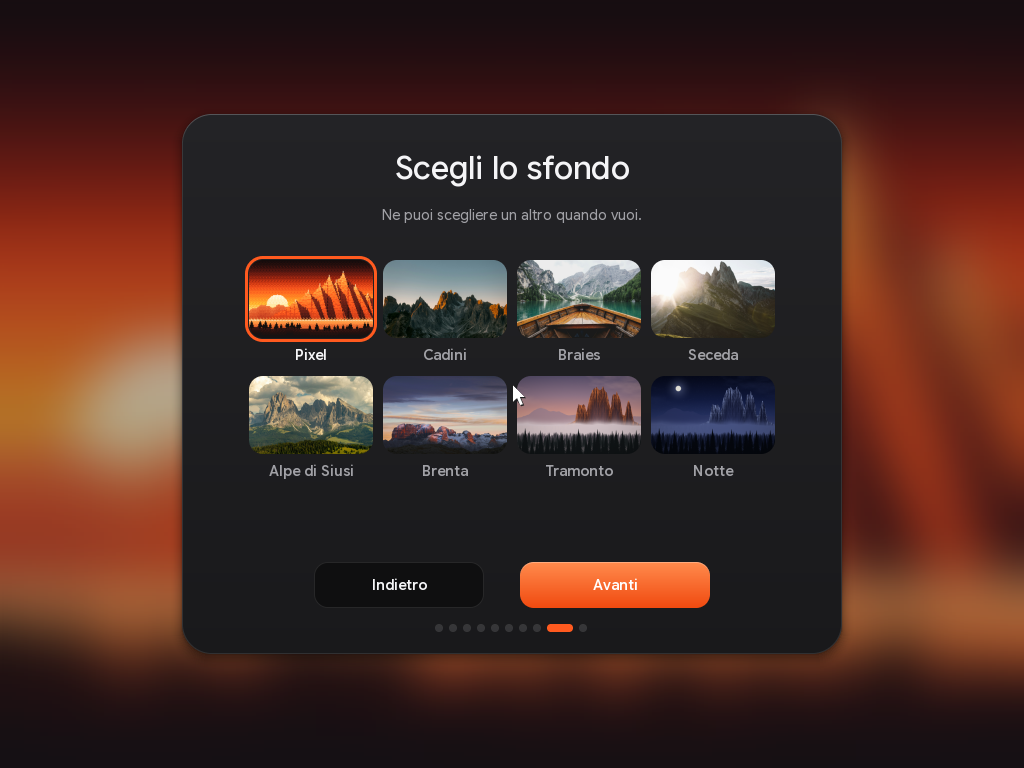
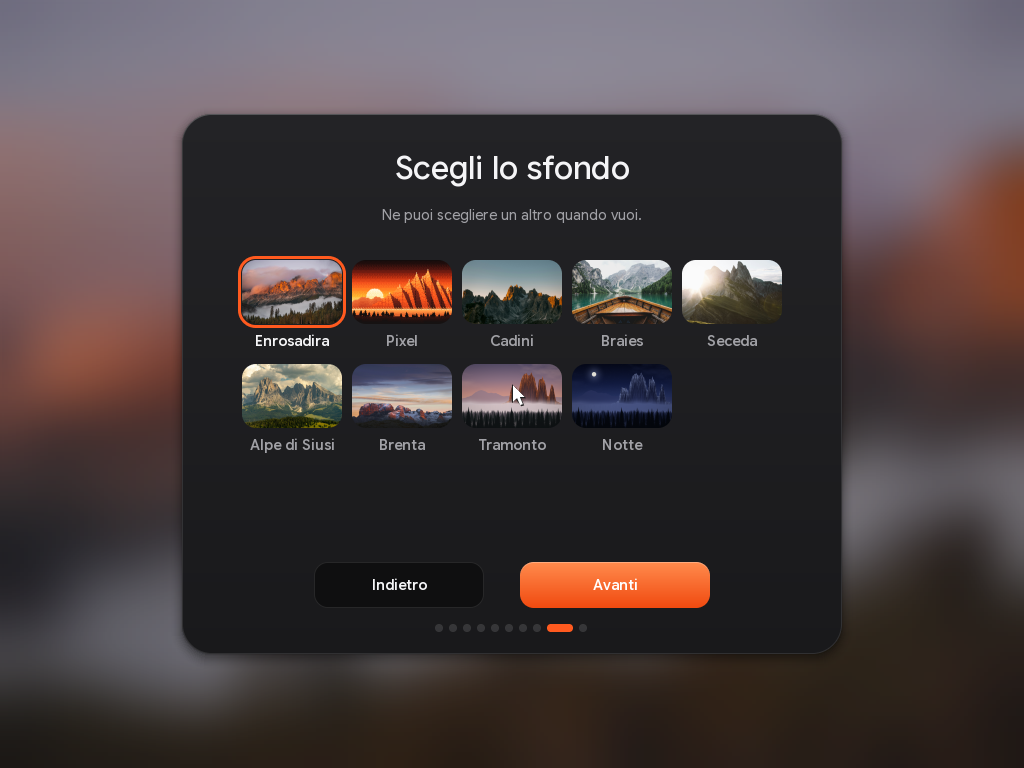
README: screenshots with the Enrosadira wallpaper and Wine's preparation
Desktop, launchpad, control centre, Wi-Fi and Bluetooth pages, a
notification, full screen, the PIN lock and the setup's wallpaper page
again with the new default wallpaper, and the bar preparing Wine.

diff --git a/README.md b/README.md
@@ -94,6 +94,11 @@ onestà cosa funziona e cosa no.
 <td><img src="docs/screenshots/schermo-intero.png" alt="Una finestra a schermo intero con la barra che risale dal bordo in basso" width="100%"><br><sub>Schermo intero: la barra risale dal bordo.</sub></td>
 <td><img src="docs/screenshots/bluetooth.png" alt="La pagina Bluetooth del centro di controllo" width="100%"><br><sub>La pagina Bluetooth.</sub></td>
 </tr>
+<tr>
+<td><img src="docs/screenshots/programmi-windows.png" alt="La barra diventata l'avanzamento della preparazione dei programmi Windows" width="100%"><br><sub>Il primo programma Windows: la barra prepara Wine.</sub></td>
+<td></td>
+<td></td>
+</tr>
 </table>
 
 ## Provalo
